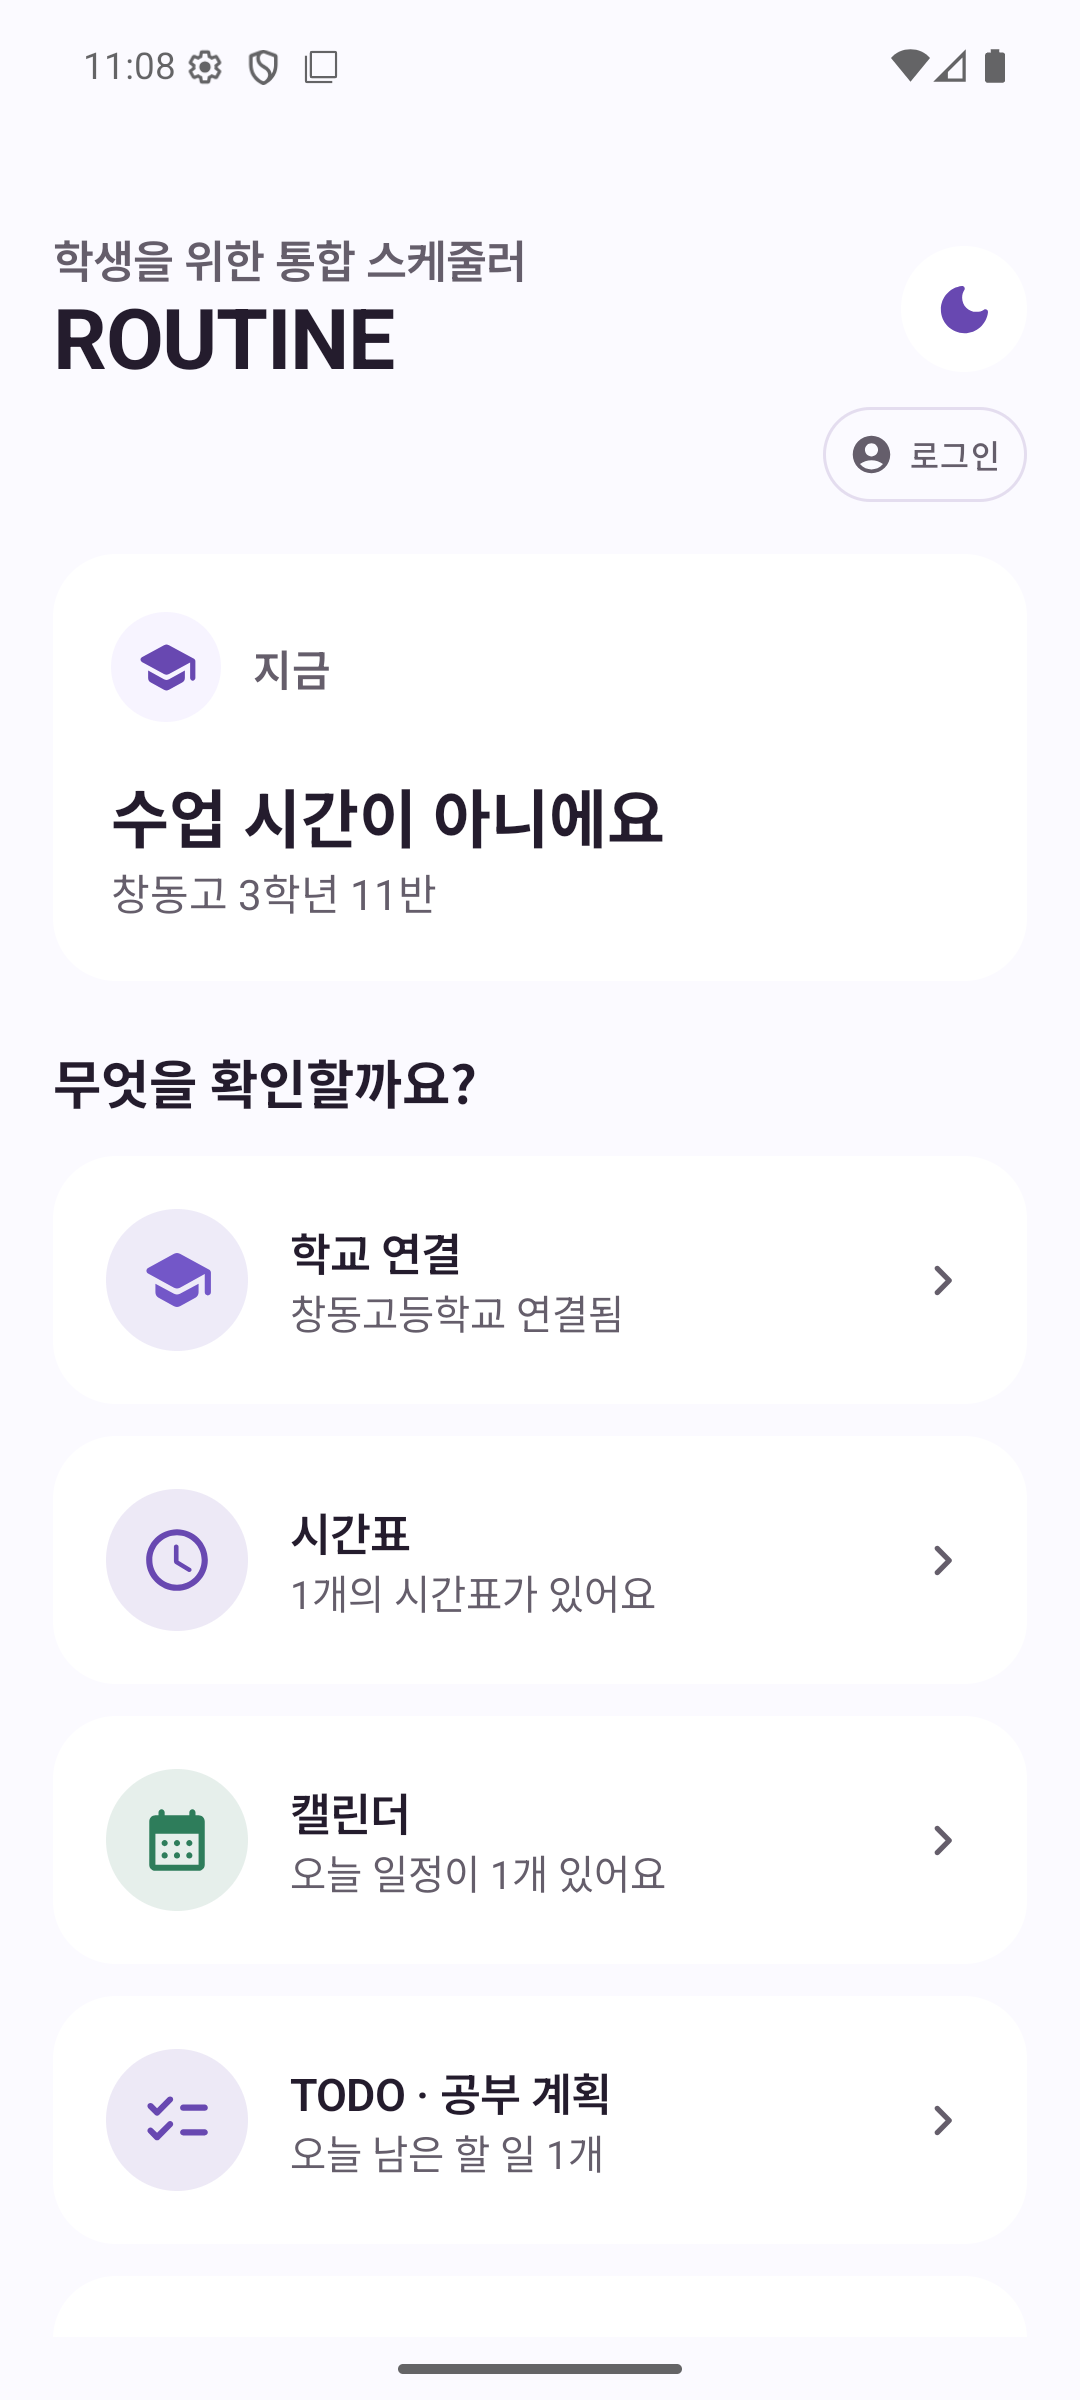
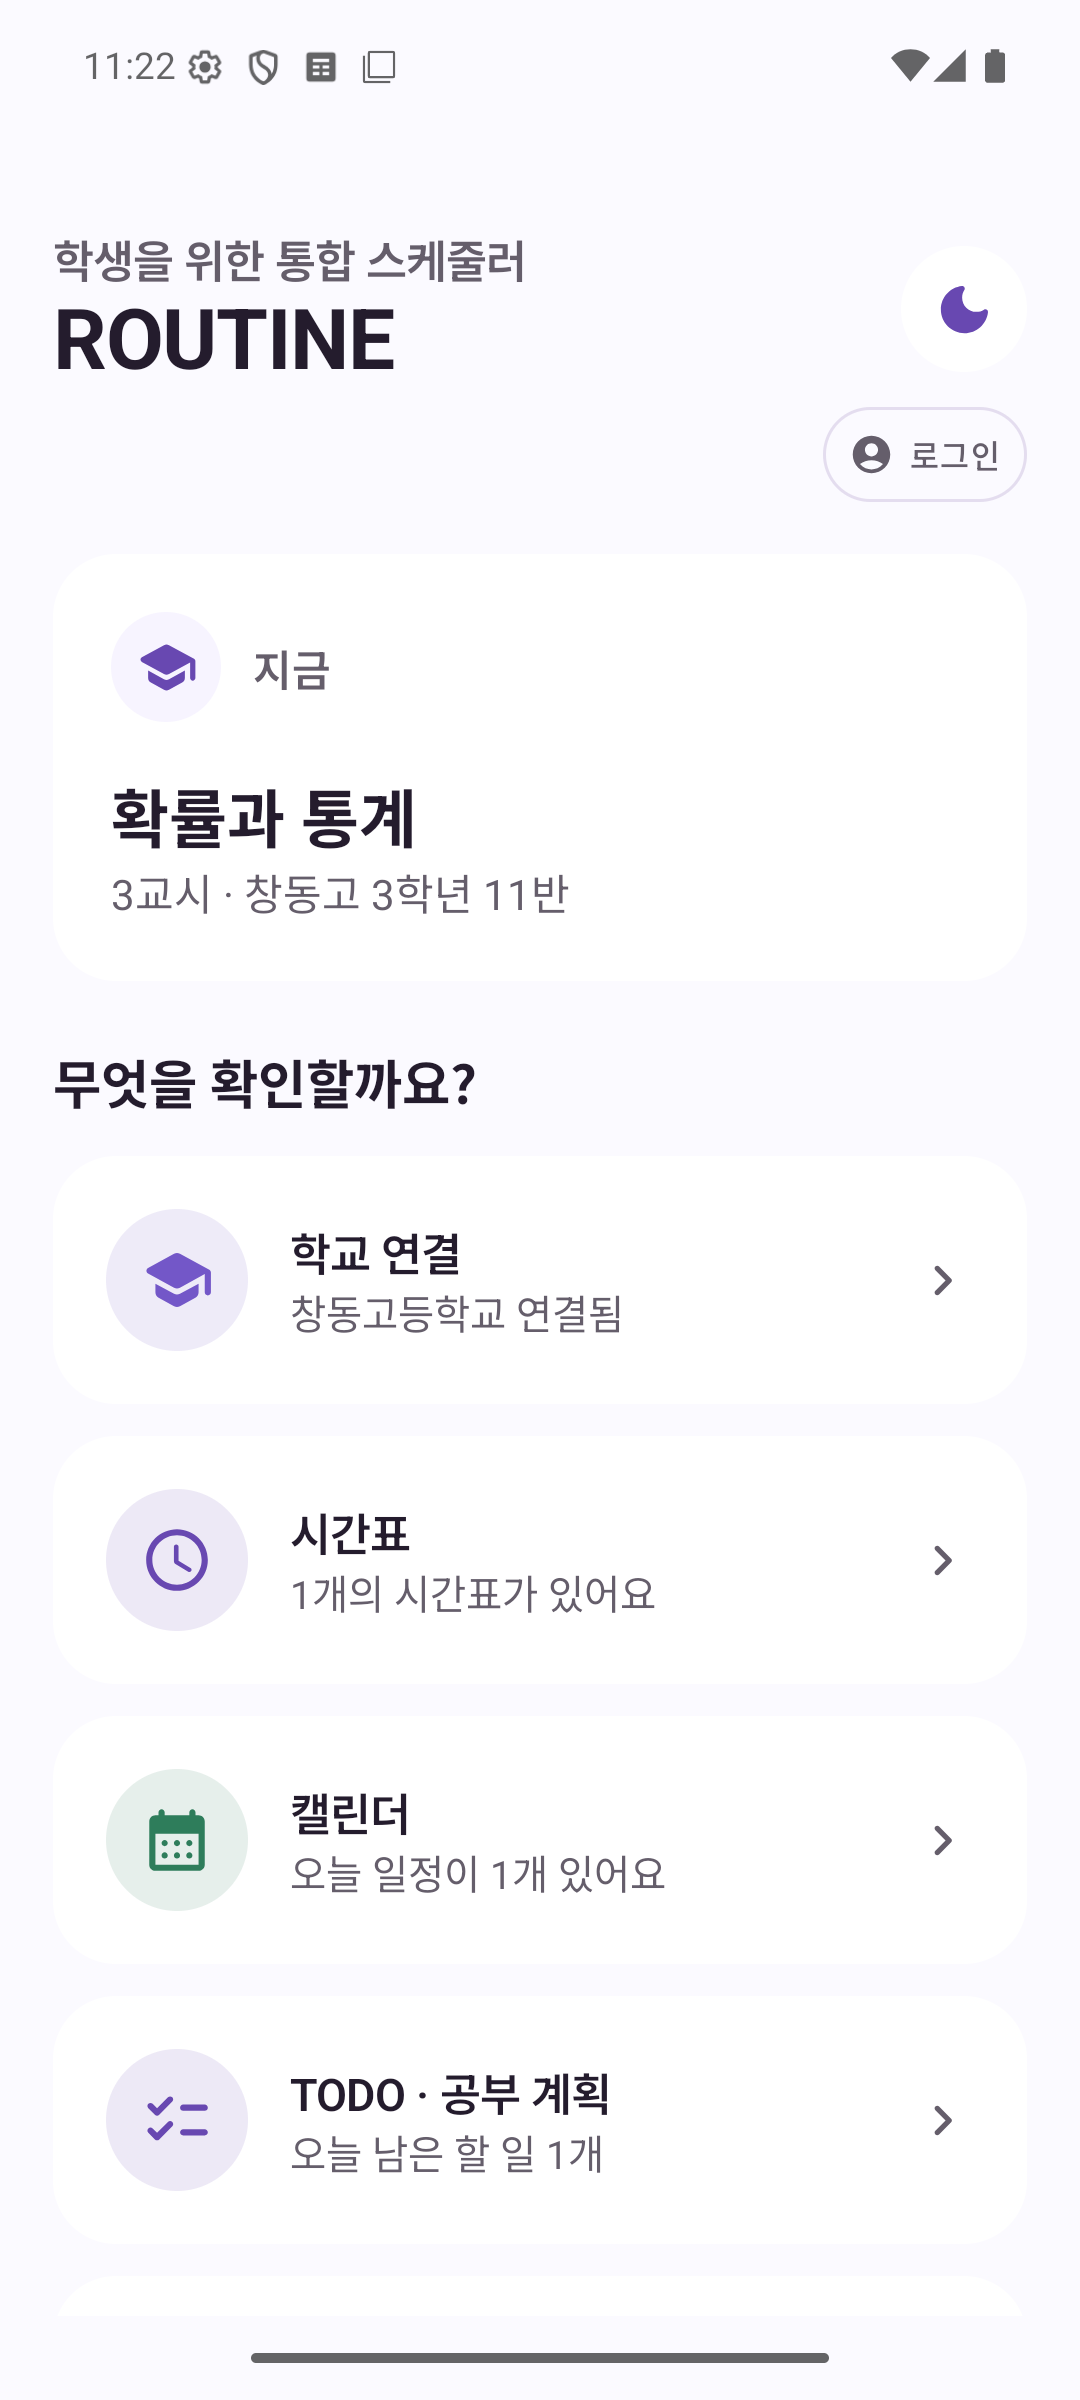
Expand feature details and refresh timetable

diff --git a/app/page.tsx b/app/page.tsx
@@ -28,6 +28,24 @@ const features = [
     description:
       "시간표와 일정을 클라우드에 안전하게 백업하고 복원합니다. 자동 백업을 켜두면 변경한 내용도 챙겨 보관해요.",
   },
+  {
+    marker: "할 일",
+    title: "TODO와 공부 계획을 한 번에",
+    description:
+      "날짜별 할 일과 공부 계획을 정리하고 완료 여부를 관리합니다. 캘린더와 함께 보며 오늘 해야 할 일을 놓치지 않아요.",
+  },
+  {
+    marker: "소통",
+    title: "학생들과 나누는 커뮤니티",
+    description:
+      "학교생활에 필요한 정보를 게시글로 나누고 댓글로 의견을 주고받습니다. 로그인한 ROUTINE 사용자와 함께 이용할 수 있어요.",
+  },
+  {
+    marker: "계정",
+    title: "로그인하고 안전하게 연결",
+    description:
+      "ROUTINE 계정으로 로그인해 커뮤니티와 클라우드 백업을 이용합니다. 휴대폰을 바꿔도 내 데이터를 다시 불러올 수 있어요.",
+  },
 ];
 
 const screenshots = [
@@ -83,7 +101,7 @@ export default function Home() {
           </p>
           <h1>ROUTINE</h1>
           <p className="hero-description">
-            시간표, 학사일정, 나의 계획까지 흩어진 학교생활을 하나로.
+            시간표, 학사일정, TODO와 커뮤니티까지 학교생활을 하나로.
             <br className="desktop-only" /> 매일 확인하기 편한 루틴을 만들어
             보세요.
           </p>
@@ -109,8 +127,8 @@ export default function Home() {
         <div className="hero-visual" aria-label="ROUTINE 앱 홈 화면 미리보기">
           <div className="ambient-card ambient-card-top">
             <span>지금</span>
-            <strong>수업 시간이 아니에요</strong>
-            <small>다음 수업도 미리 확인해요</small>
+            <strong>확률과 통계</strong>
+            <small>3교시 · 창동고 3학년 11반</small>
           </div>
           <div className="phone phone-hero">
             <div className="phone-speaker" />

diff --git a/app/globals.css b/app/globals.css
@@ -484,6 +484,10 @@ footer a:hover {
   box-shadow: var(--shadow);
 }
 
+.feature-card:last-child:nth-child(4n + 3) {
+  grid-column: span 2;
+}
+
 .feature-marker {
   width: 56px;
   height: 56px;
@@ -1072,6 +1076,10 @@ footer > div {
 
   .feature-card {
     min-height: 255px;
+  }
+
+  .feature-card:last-child:nth-child(4n + 3) {
+    grid-column: auto;
   }
 
   .product-story,
